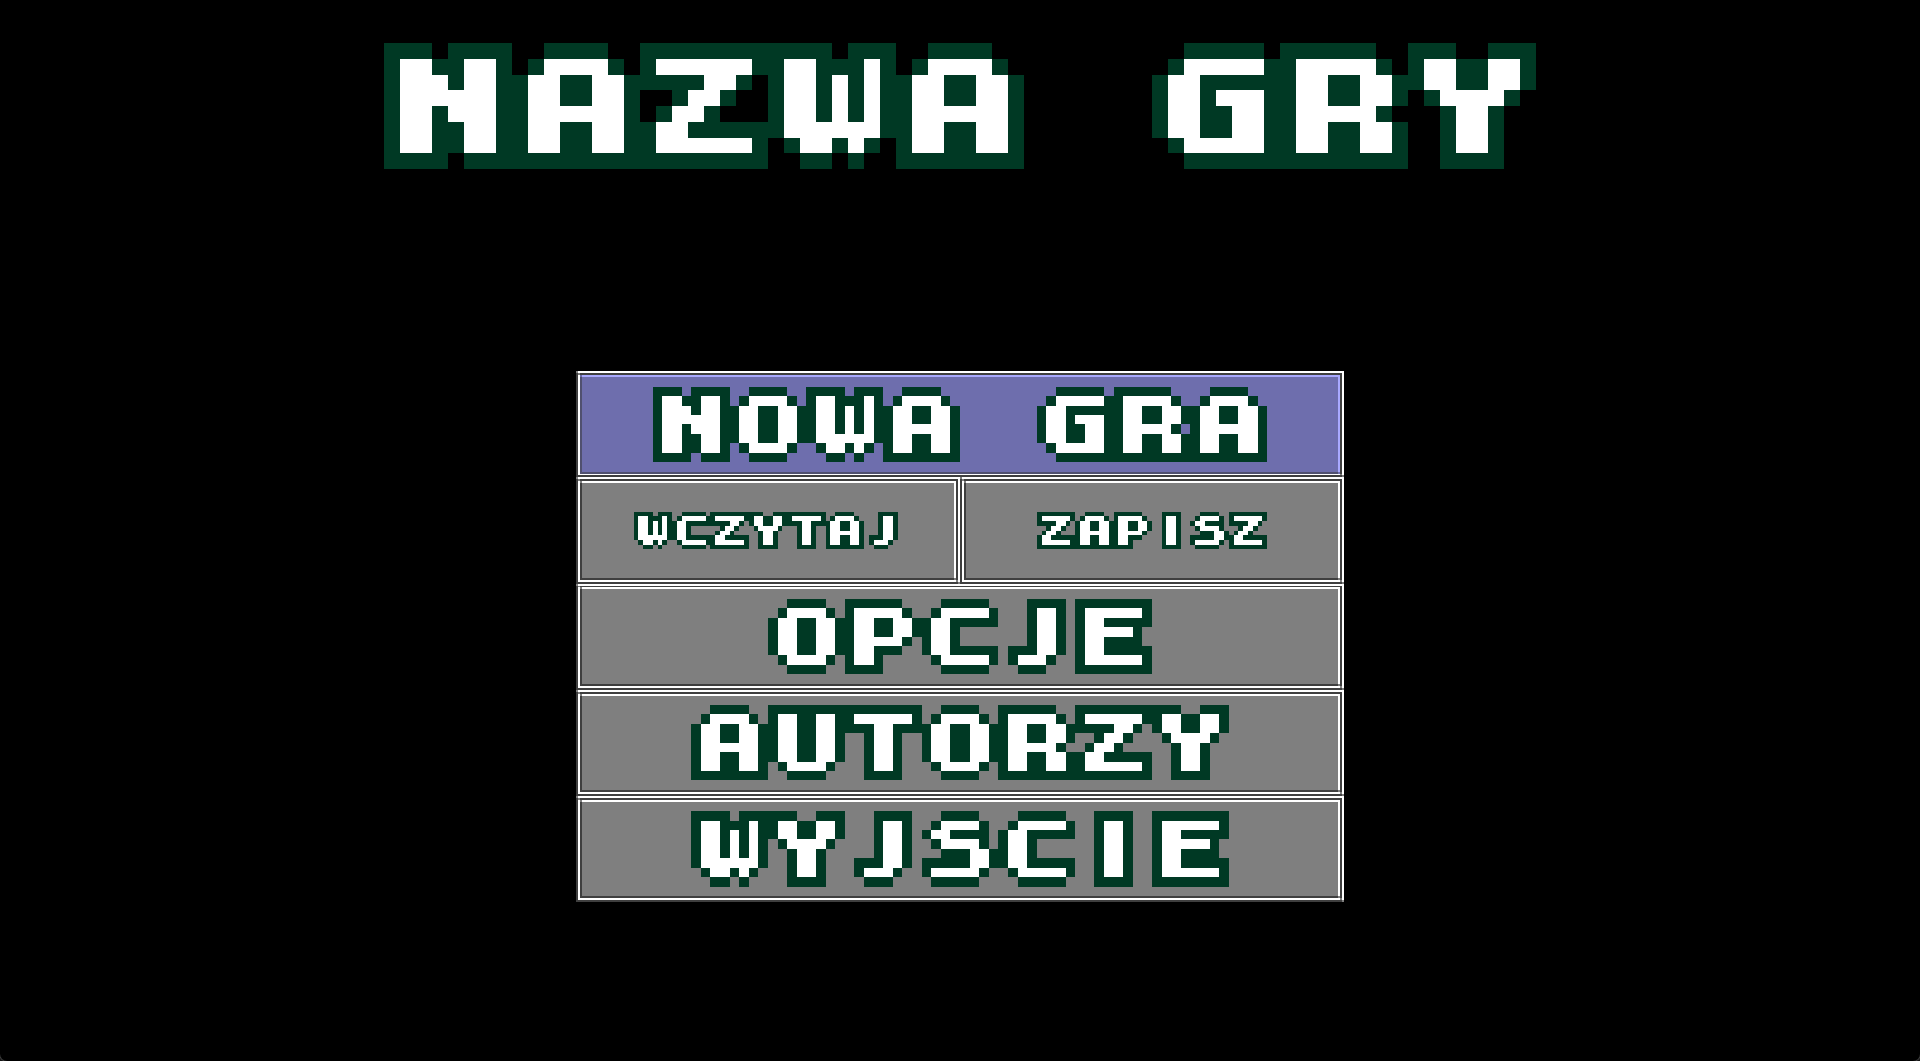
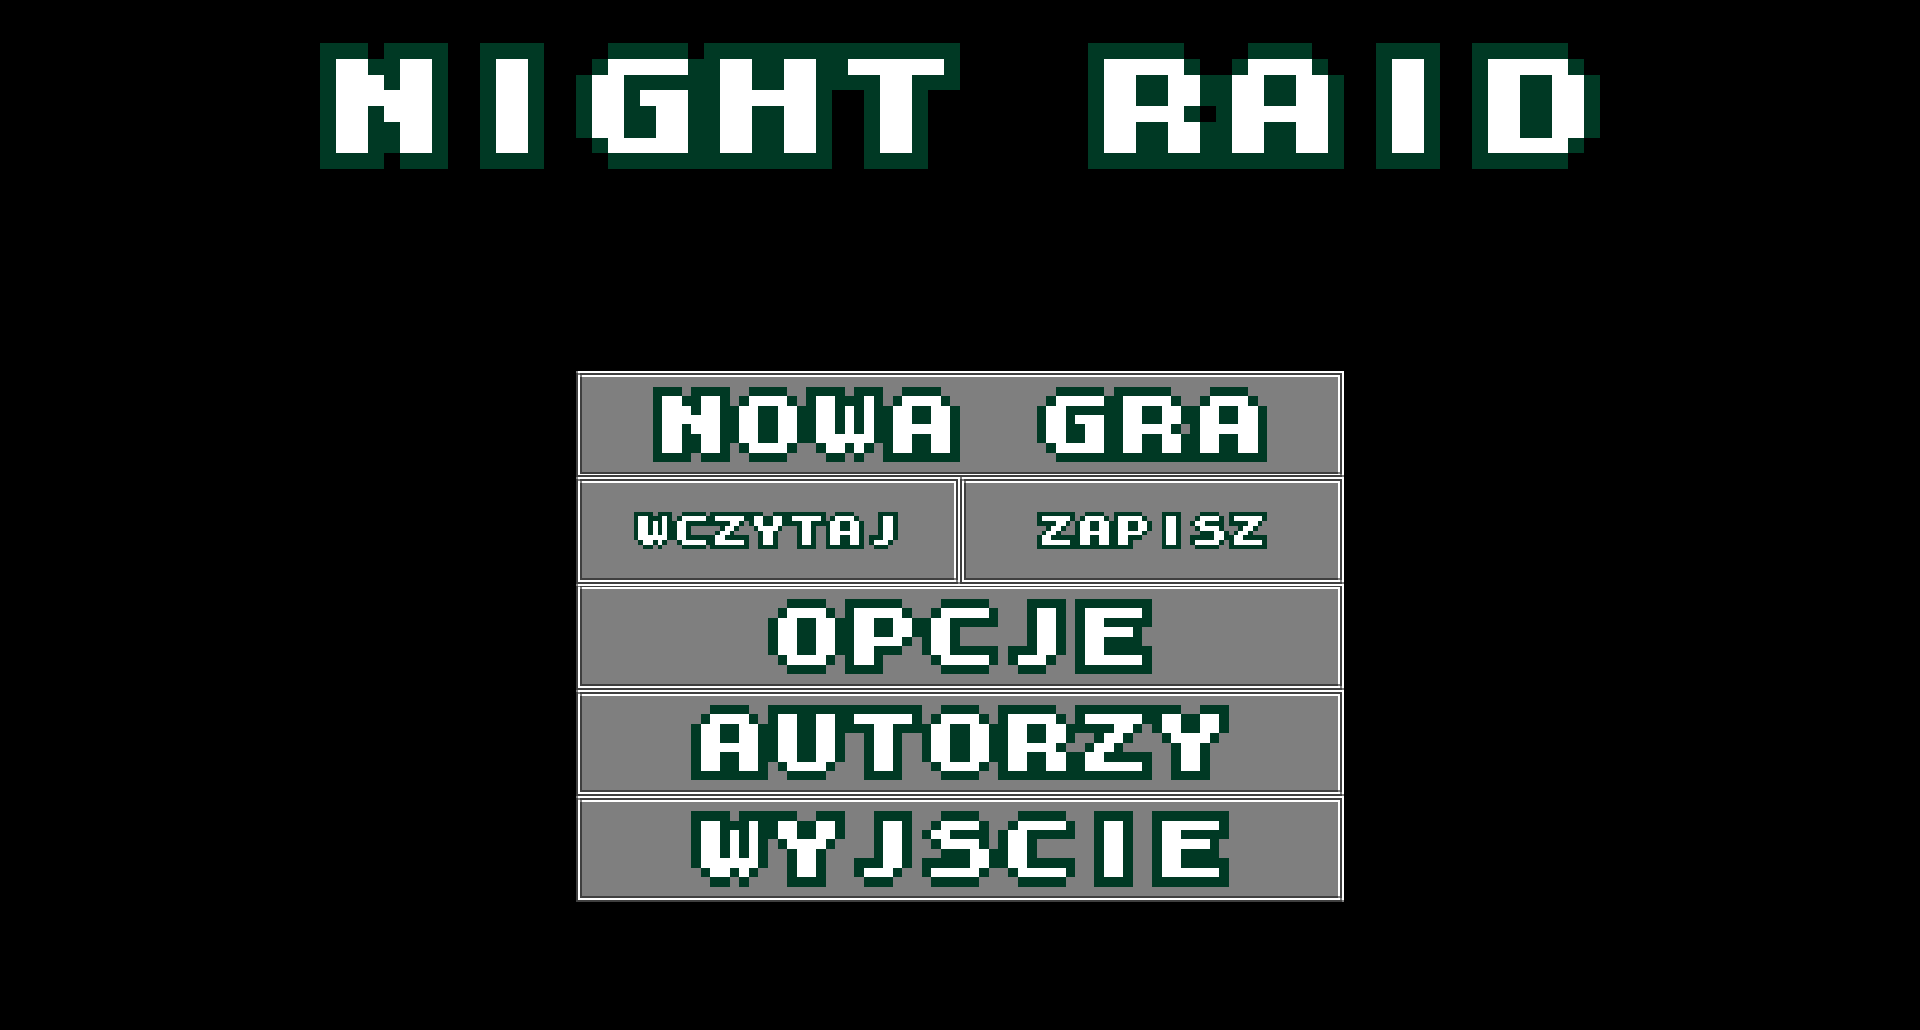
Rename the game to Night Raid
Replace the "NAZWA GRY" placeholder title in the main menu and the
"Gra" window title, rename the packaged exe to NightRaid and refresh
the main menu screenshot.

Claude-Session: https://claude.ai/code/session_01Xo8ye2Lc7212qEKhWN1xze

Changed region(s): [[0.2812, 0.3417, 0.7188, 0.901], [0.1562, 0.0311, 0.5312, 0.1864], [0.5625, 0.0311, 0.8438, 0.1864]]

diff --git a/src/gra/gui/Menu.java b/src/gra/gui/Menu.java
@@ -101,7 +101,7 @@ public class Menu {
      * Renderowanie menu, w zależności od aktualnego menu wyowołuje metodę renderowania menu.
      */
     public void render() {
-        Draw.stringCentered("NAZWA GRY", 0, Main.getWindow().getHeight() / 20f * 8, 64);
+        Draw.stringCentered("NIGHT RAID", 0, Main.getWindow().getHeight() / 20f * 8, 64);
         if (currentMenu == MAIN_MENU) {
             mainMenu.render();
         } else if (currentMenu == SAVE_LOAD) {

diff --git a/src/gra/game/Main.java b/src/gra/game/Main.java
@@ -145,7 +145,7 @@ public class Main {
         window = new Window();
         window.setSize(width, height);
         window.setFullscreen(false);
-        window.createWindow("Gra");
+        window.createWindow("Night Raid");
         /**
          * Przypisanie wskaznika obiektu window z biblioteki GLFW
          */

diff --git a/README.md b/README.md
@@ -1,6 +1,6 @@
-# LWJGL 2D Shooter
+# Night Raid
 
-A 2D side-scrolling platformer shooter written in Java with [LWJGL 3](https://www.lwjgl.org/) (GLFW + OpenGL) and [JOML](https://github.com/JOML-CI/JOML).
+Night Raid is a 2D side-scrolling platformer shooter written in Java with [LWJGL 3](https://www.lwjgl.org/) (GLFW + OpenGL) and [JOML](https://github.com/JOML-CI/JOML).
 It was made in 2020 as a university course project. The engine is hand-rolled: shaders, sprite rendering, tile maps, collisions, cameras, menus and audio were all written from scratch on top of raw OpenGL.
 
 > Note: the in-game text and the source code comments/Javadoc are in Polish.
@@ -60,9 +60,9 @@ Type these during gameplay:
 
 ## Download and play (Windows)
 
-1. Download `LWJGL-2D-Shooter-1.0.0-windows.zip` from the [latest release](https://github.com/DorianKucharski/lwjgl-2d-shooter/releases/latest).
+1. Download `NightRaid-1.1.0-windows.zip` from the [latest release](https://github.com/DorianKucharski/lwjgl-2d-shooter/releases/latest).
 2. Extract it anywhere.
-3. Run `LWJGL-2D-Shooter.exe`.
+3. Run `NightRaid.exe`.
 
 No Java installation is needed because a trimmed Java runtime is bundled. Keep the `.exe` next to the `audio`, `levels`, `textures` and `saves` folders, since the game loads them from its working directory.
 
@@ -82,8 +82,8 @@ powershell -ExecutionPolicy Bypass -File build.ps1
 
 This compiles the game, bundles it with a minimal Java runtime and the game assets, and writes:
 
-- `dist/LWJGL-2D-Shooter/LWJGL-2D-Shooter.exe`
-- `dist/LWJGL-2D-Shooter-1.0.0-windows.zip`
+- `dist/NightRaid/NightRaid.exe`
+- `dist/NightRaid-1.1.0-windows.zip`
 
 The script uses `JAVA_HOME` if set, otherwise `javac`/`jpackage` from `PATH`.
 
